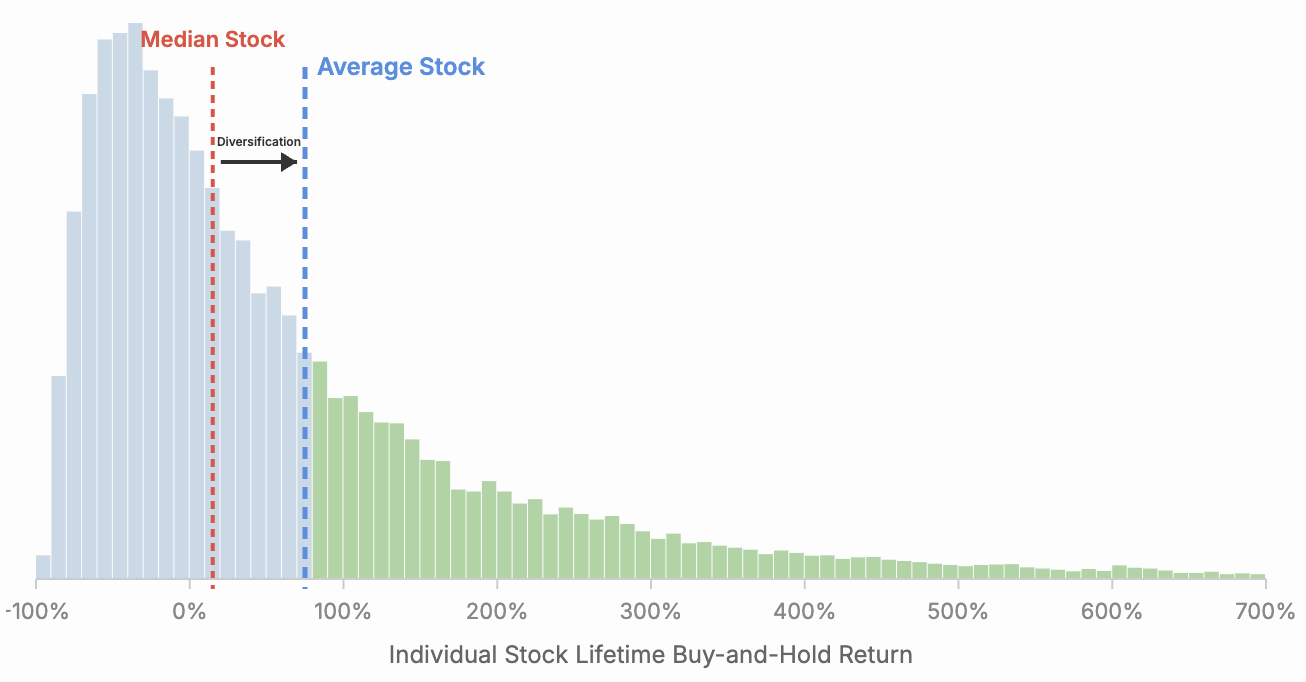
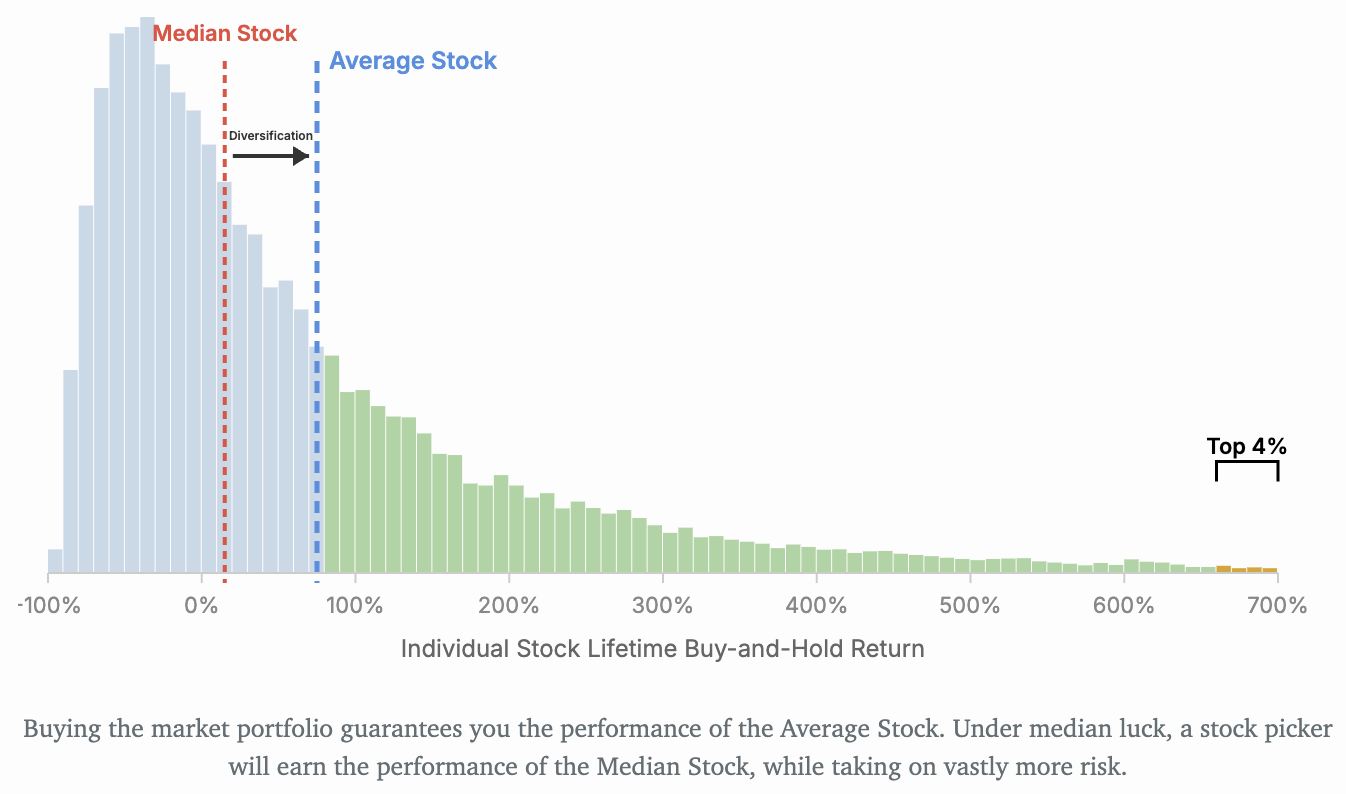
clarified some points

Changed region(s): [[0.0, 0.0, 1.0, 0.9853], [0.8882, 0.5543, 0.9495, 0.585]]

diff --git a/index.html b/index.html
@@ -248,6 +248,12 @@
 
         <p class="reveal-node">Each stock, over its lifetime, has only a 31% chance of outperforming the market, meaning stock picking is like flipping a very unfair coin. And only the top 4% of stocks result in all the net wealth creation in the market &ndash; meaning a portfolio of the bottom 96% of all stocks would return the expected risk-free return rate.<sup>[5]</sup> That means that <b>diversification also lets you increase your expected returns</b>, because a portfolio containing all stocks is guaranteed to contain the 31% which outperform the market, and would contain the 4% of huge-winner stocks that result in the expected annual market gains, <i>before the gain has occurred</i>.</p>
 
+        <!-- Stock Return Distribution Chart -->
+        <div class="reveal-node" style="margin-top: 2rem; margin-bottom: 2rem;">
+            <img src="chart.png" alt="Distribution of individual stock lifetime buy-and-hold returns, showing the median stock underperforms the average stock, with diversification bridging the gap.">
+
+        </div>
+
         <p class="reveal-node"><b>Most returns come from taking undiversifiable risk, not &ldquo;choosing the best companies&rdquo;.</b> Attempting to pick winning stocks typically results in underperformance or catastrophic losses, while attempting to pick the best fund managers typically results in similar levels of risk while also underperforming due to paying compounding fees.</p>
 
         <p class="reveal-node">For example, Warren Buffet (known for his savvy investments) has statistically insignificant returns in excess of the risk he took<sup>[1]</sup>, meaning <b>his success could be entirely replicated and improved</b>, by targeting the same undiversifiable risks he once targeted. The vast majority of professional portfolio managers underperform a risk-adjusted benchmark and managers who do well are unlikely to continue doing well<sup>[2]</sup>, and even in the best instances, fund managers cannot deliver more profits than the cost of their fees (in a statistically significant way)<sup>[3][4]</sup>. So while most people think the stock market demands you speculate to &ldquo;buy the winning stocks&rdquo;, the data has shown that even professionals find this <b>exceptionally hard to do consistently.</b> And in a market where it is infeasible to predict what stocks will win, <i>before anyone else does</i>, the most rational way to profit is by getting paid to take undiversifiable risk.</p>
@@ -262,13 +268,7 @@
 
         <p class="reveal-node"><b>The most important resource is time in the market.</b> Over time, your bad years will even out against your good years and your actual results will approach your expected results. That means <b>not investing is the most risky choice for meeting retirement needs</b>, whereas <b>stocks is the most risky choice for money you need today</b>.</p>
 
-        <!-- Stock Return Distribution Chart -->
-        <div class="reveal-node" style="margin-top: 2rem; margin-bottom: 2rem;">
-            <img src="chart.png" alt="Distribution of individual stock lifetime buy-and-hold returns, showing the median stock underperforms the average stock, with diversification bridging the gap.">
-            <p style="font-size: 0.8rem; color: #636e72; text-align: center; margin-top: 0.8rem; line-height: 1.5;">
-                Buying the market portfolio guarantees you the performance of the Average Stock. Under median luck, a stock picker will earn the performance of the Median Stock, while taking on vastly more risk.
-            </p>
-        </div>
+
     </section>
 
     <section>
